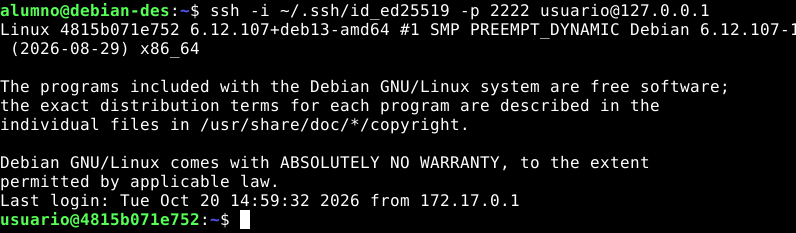
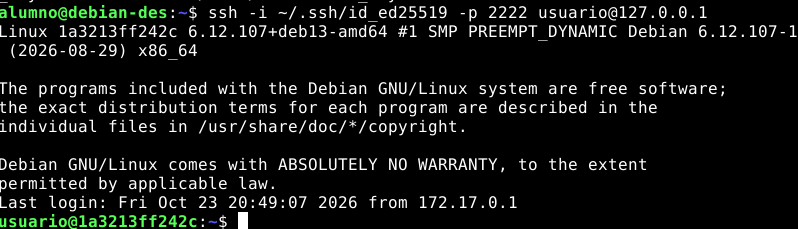
Corrijo errores
Vuelvo a capturar ciertas imagenes que me he dado cuenta de que son erroneas

Changed region(s): [[0.0, 0.3362, 0.9347, 0.5808], [0.0, 0.6419, 0.8141, 1.0], [0.0, 0.0, 1.0, 0.2751]]

diff --git a/practica-ssh/README.md b/practica-ssh/README.md
@@ -82,7 +82,11 @@ No nos conectaremos como `root`: Debian lo impide por defecto con contraseña y 
 adduser usuario
 ```
 
-Pide una contraseña (dos veces) y algunos datos opcionales que dejaremos vacíos con Enter. Al final confirmamos con `Y`.
+Lo primero que pide es la contraseña del nuevo usuario:
+
+![Petición de la contraseña del usuario](img/5.png)
+
+Pide la contraseña (dos veces) y algunos datos opcionales que dejaremos vacíos con Enter. Al final confirmamos con `Y`.
 
 ![Creación del usuario](img/6.png)
 
@@ -104,7 +108,7 @@ Abriremos **otra terminal en el equipo** (dejamos la del contenedor abierta):
 ssh -p 2222 usuario@127.0.0.1
 ```
 
-La primera vez SSH pregunta si confíamos en la máquina: responderemos `yes`. Su huella se guarda en `~/.ssh/known_hosts`, y en las siguientes conexiones SSH la compara para avisarnos si alguien se hace pasar por ella. Después pedimos la contraseña del usuario:
+La primera vez SSH pregunta si confiamos en la máquina: responderemos `yes`. Su huella se guarda en `~/.ssh/known_hosts`, y en las siguientes conexiones SSH la compara para avisarnos si alguien se hace pasar por ella. Después pedimos la contraseña del usuario:
 
 ![Primera conexión con contraseña](img/8.png)
 
@@ -262,7 +266,7 @@ Ahora la prueba definitiva: forzar un intento con contraseña.
 ssh -o PubkeyAuthentication=no -p 2222 usuario@127.0.0.1
 ```
 
-Ejecútaremos desde el equipo, no desde el contenedor. Debe fallar con `Permission denied (publickey)`. Ese error es la buena noticia: la máquina ya solo acepta claves.
+Ejecutaremos desde el equipo, no desde el contenedor. Debe fallar con `Permission denied (publickey)`. Ese error es la buena noticia: la máquina ya solo acepta claves.
 
 ![Intento de conexión con contraseña](img/17.png)
 
